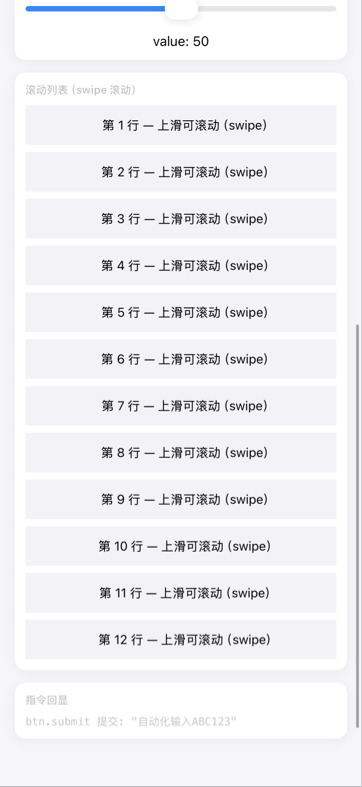
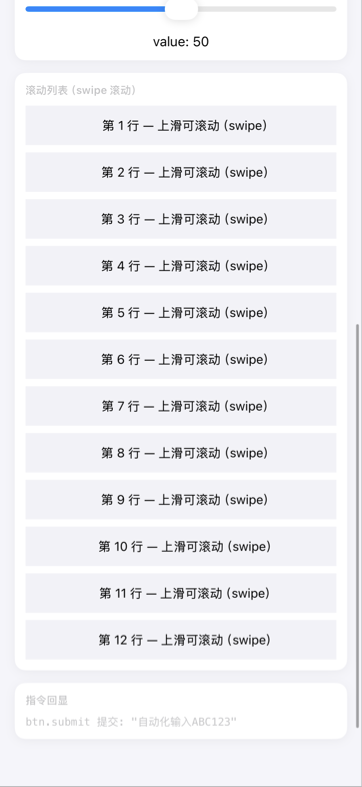
【feat】提高工具健壮性

diff --git a/Tools/gui_server.js b/Tools/gui_server.js
@@ -54,7 +54,14 @@ function sendToApp(action, params = {}, timeoutSec = 20) {
     const id = `g-${++appSeq}`;
     const timer = setTimeout(() => { appPending.delete(id); resolve({ ok: false, error: `超时 ${timeoutSec}s` }); }, timeoutSec * 1000);
     appPending.set(id, { resolve, timer });
-    appSocket.send(JSON.stringify({ id, action, params, timeout: timeoutSec }));
+    try {
+      appSocket.send(JSON.stringify({ id, action, params, timeout: timeoutSec }));
+    } catch {
+      // readyState 检查后连接恰好死亡：同步 throw 会 reject 整个 Promise 链
+      clearTimeout(timer);
+      appPending.delete(id);
+      resolve({ ok: false, error: 'App 连接已断开' });
+    }
   });
 }
 

diff --git a/IUIAuto/Core/IUAEngine.m b/IUIAuto/Core/IUAEngine.m
@@ -21,6 +21,18 @@ NSString *const IUAEngineConnectionDidChangeNotification = @"IUAEngineConnection
 static NSString *const IUAActionErrorDomain = @"IUAActionErrorDomain";
 
 /// 从 params 中解析点坐标：{"x":..,"y":..} 顶层或 {"from":{"x","y"}} 形式
+/// NSNumber 直接可用；NSString 必须能完整解析为数值（"12.5" ✓ "abc"/"12x" ✗）
+static BOOL IUAIsNumeric(id value) {
+    if ([value isKindOfClass:[NSNumber class]]) return YES;
+    if (![value isKindOfClass:[NSString class]]) return NO;
+    NSString *trimmed = [(NSString *)value stringByTrimmingCharactersInSet:[NSCharacterSet whitespaceCharacterSet]];
+    if (trimmed.length == 0) return NO;
+    const char *cstr = trimmed.UTF8String;
+    char *end = NULL;
+    strtod(cstr, &end);
+    return end != cstr && *end == '\0' && end != NULL;
+}
+
 static BOOL IUALoadPoint(NSDictionary<NSString *, id> * _Nullable params,
                          NSString *prefix, NSString *xKey, NSString *yKey, CGPoint *outPoint) {
     id x = params[xKey];
@@ -30,13 +42,12 @@ static BOOL IUALoadPoint(NSDictionary<NSString *, id> * _Nullable params,
         if (!x && sub) x = sub[@"x"];
         if (!y && sub) y = sub[@"y"];
     }
-    BOOL xNum = [x isKindOfClass:[NSNumber class]] || [x isKindOfClass:[NSString class]];
-    BOOL yNum = [y isKindOfClass:[NSNumber class]] || [y isKindOfClass:[NSString class]];
-    if (!xNum || !yNum) {
+    // 数值校验：任意字符串（如 "abc"→0.0）不得混过校验变成点击 (0,0)
+    if (!IUAIsNumeric(x) || !IUAIsNumeric(y)) {
         return NO;
     }
-    outPoint->x = [x respondsToSelector:@selector(doubleValue)] ? [x doubleValue] : 0;
-    outPoint->y = [y respondsToSelector:@selector(doubleValue)] ? [y doubleValue] : 0;
+    outPoint->x = [x doubleValue];
+    outPoint->y = [y doubleValue];
     return YES;
 }
 

diff --git a/IUIAuto/Core/IUAWebSocketClient.m b/IUIAuto/Core/IUAWebSocketClient.m
@@ -42,6 +42,13 @@ typedef NS_ENUM(NSUInteger, IUAWSState) {
     return self.state == IUAWSStateConnected;
 }
 
+- (void)dealloc {
+    // 循环引用兜底：session 强引用 self，正常路径靠 disconnect 打破；
+    // 若外部未 disconnect 即释放（父对象不再持有时 session 仍持 self），
+    // 这里 invalidate 让 session 放开引用
+    [_session finishTasksAndInvalidate];
+}
+
 #pragma mark - 连接管理
 
 - (void)connect {
@@ -69,6 +76,12 @@ typedef NS_ENUM(NSUInteger, IUAWSState) {
         self.manualDisconnected = YES;
         [self teardownTask];
         self.state = IUAWSStateIdle;
+        // NSURLSession 强引用 delegate(self) 且持有系统资源：不 invalidate 会
+        // 造成 session↔client 循环引用泄漏（每次 engine 重启泄漏一整个 session）
+        if (self->_session) {
+            [self->_session finishTasksAndInvalidate];
+            self->_session = nil;
+        }
         IUALogInfo(@"WS: 已主动断开");
         if ([self.delegate respondsToSelector:@selector(webSocketDidDisconnectManually:)]) {
             [self.delegate webSocketDidDisconnectManually:self];
